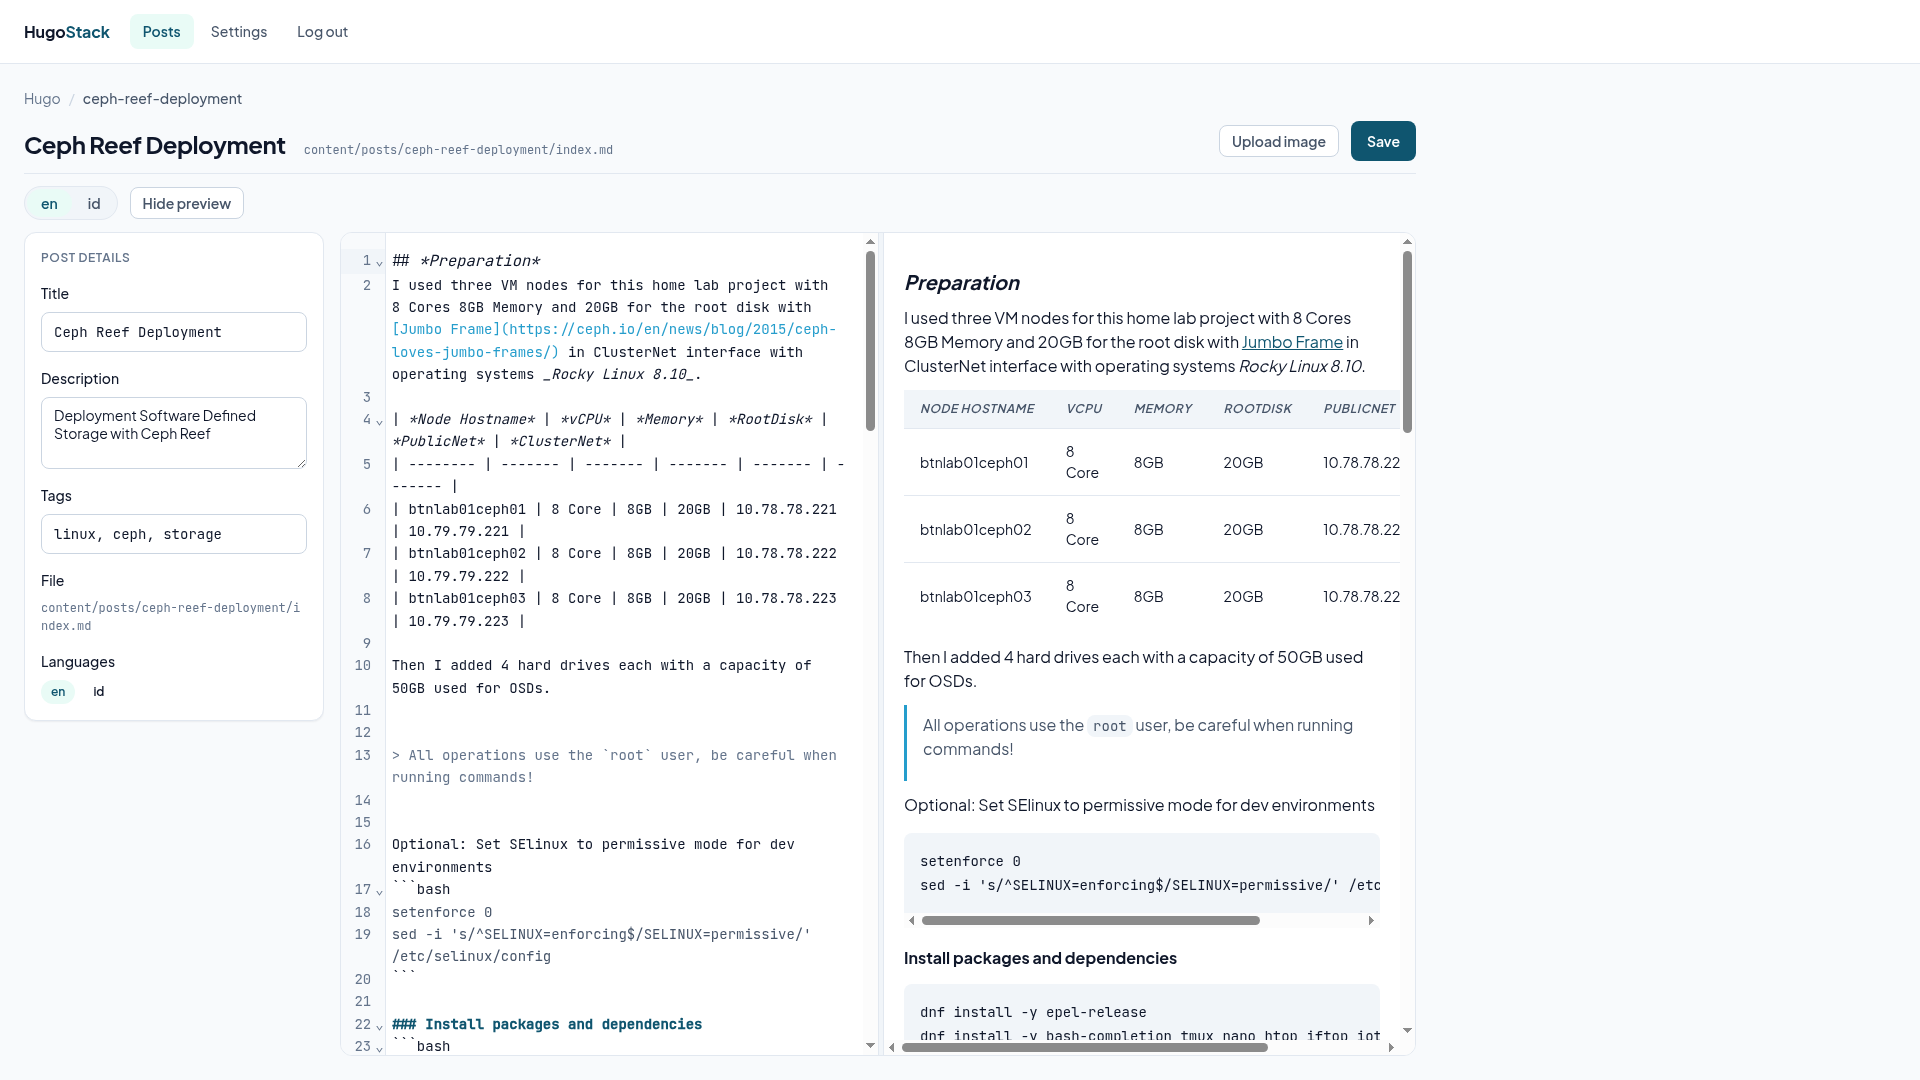
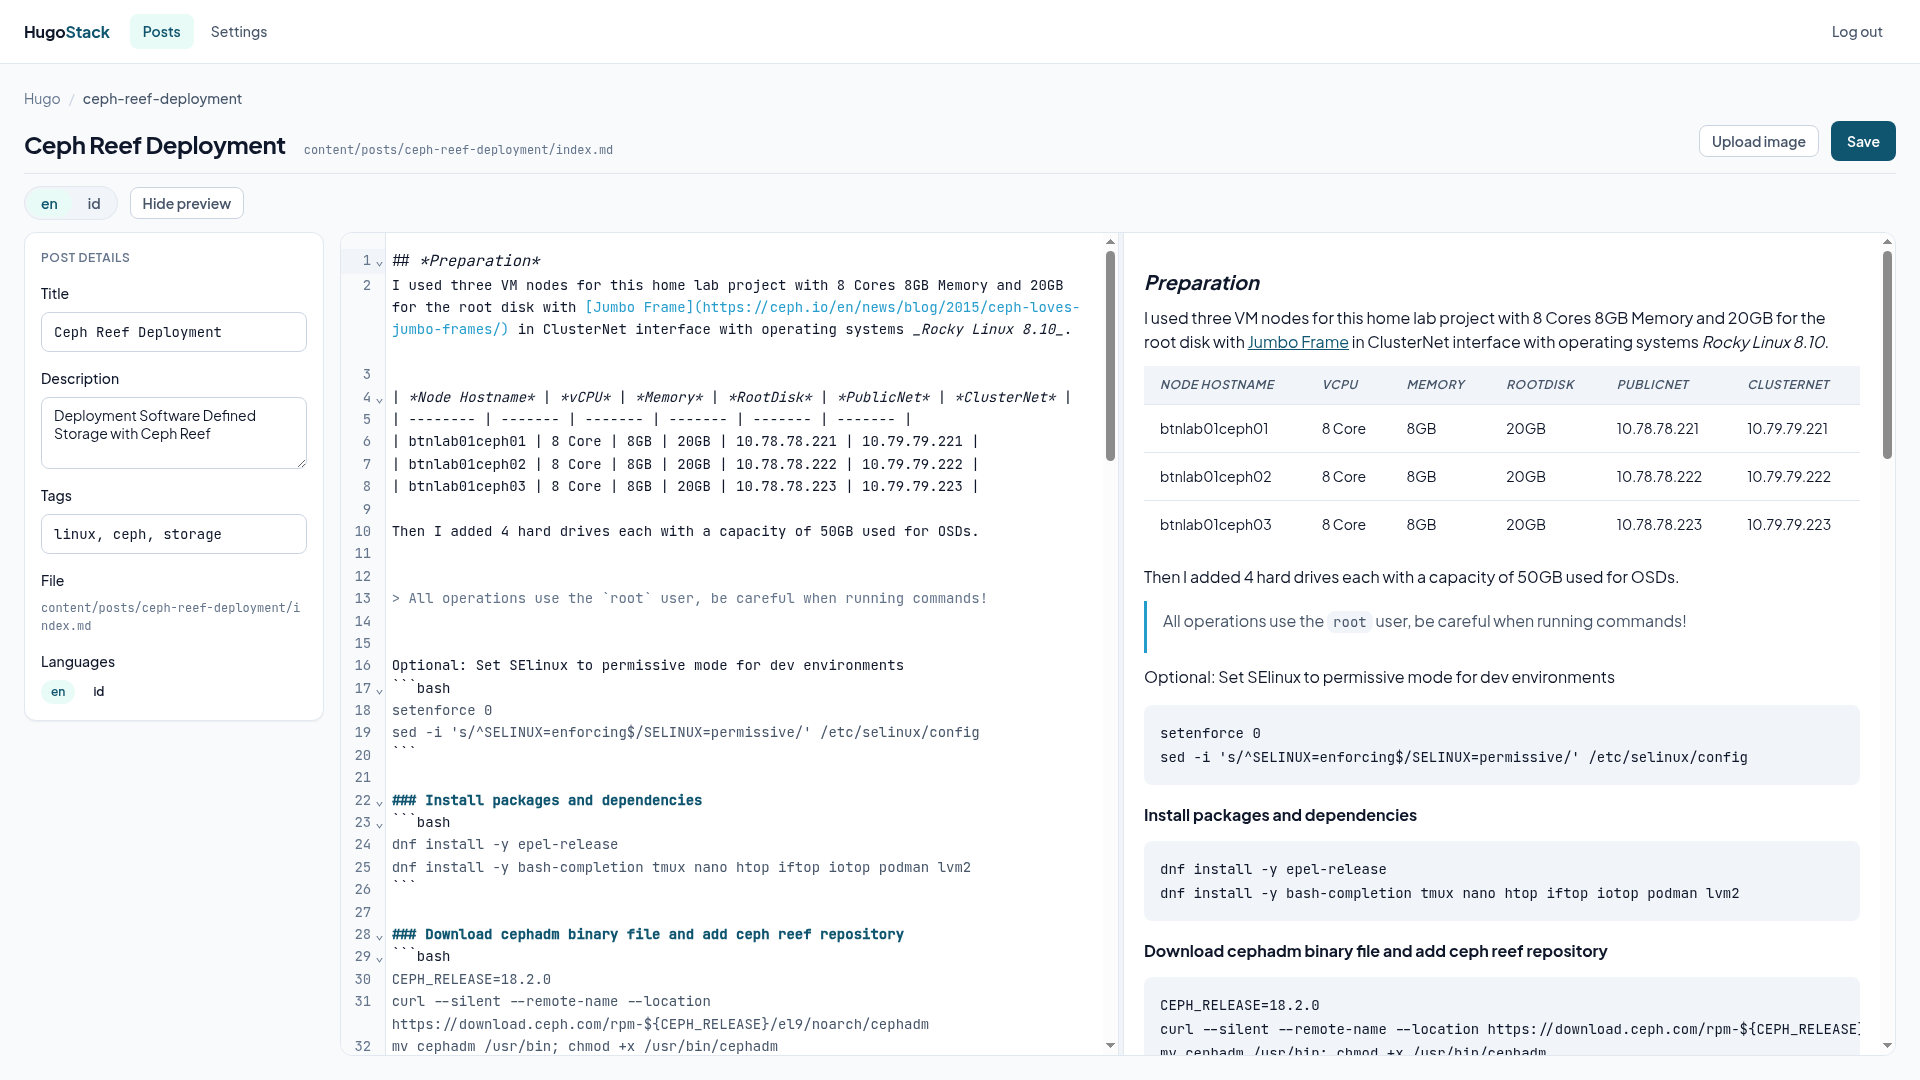
Center main content (max-width 1440, margin auto); Log out to far-right header; editor full-width while preview is visible

diff --git a/ui/static/style.css b/ui/static/style.css
@@ -89,7 +89,6 @@ body {
 .topbar__left { display: flex; align-items: center; gap: var(--style-spacing-2); }
 .topbar__brand { font-size: var(--style-text-base); font-weight: 700; letter-spacing: -0.01em; }
 .topbar__brand em { font-style: normal; color: var(--style-text-brand); }
-.topbar__right { display: flex; align-items: center; gap: var(--style-spacing-2); }
 .topbar__action {
   padding: 6px 12px;
   border: 1px solid transparent;
@@ -109,11 +108,14 @@ body {
 .topbar__action.is-active { background: var(--style-bg-brand-soft); color: var(--style-text-brand); font-weight: 600; }
 
 .main {
-  flex: 1;
   min-width: 0;
   max-width: 1440px;
+  margin: 0 auto;
   padding: var(--style-page-padding);
 }
+/* Editor goes full-width while the live preview is visible (toggle flips
+   .is-preview-hidden on #pane-md) - the split view wants the extra room. */
+.main:has(#pane-md:not(.is-preview-hidden)) { max-width: none; margin: 0; }
 
 /* Login: centered card on the remaining viewport (BookStack-style) */
 /* login is the only page whose card must center on the FULL viewport, so

diff --git a/ui/templates/shell.html b/ui/templates/shell.html
@@ -18,10 +18,12 @@
     <nav class="topbar__nav" aria-label="Main">
       <a class="topbar__action{{if eq .Active "posts"}} is-active{{end}}" href="/">Posts</a>
       <a class="topbar__action{{if eq .Active "settings"}} is-active{{end}}" href="/settings">Settings</a>
-      <a class="topbar__action topbar__action--danger" href="/logout">Log out</a>
     </nav>
     {{end}}
   </div>
+  {{if not .NoNav}}
+  <a class="topbar__action topbar__action--danger" href="/logout">Log out</a>
+  {{end}}
 </header>
 <div class="shell">
   <main class="main">
